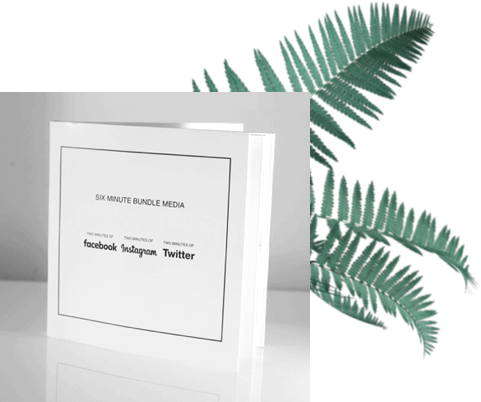
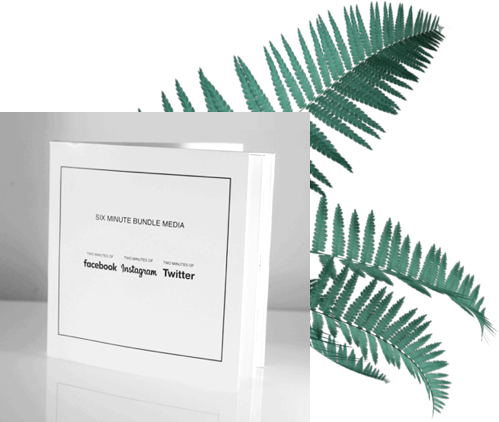
Push broken links

Changed region(s): [[0.0, 0.0, 0.9979, 0.9851], [0.1559, 0.5672, 0.4054, 0.6866], [0.1871, 0.4776, 0.3742, 0.5373]]

diff --git a/css/main.css b/css/main.css
@@ -6,7 +6,7 @@ html, body {
     -moz-box-sizing: border-box;
 }
 
-/* Typography ---------- */
+/* Typography ---------- ---------- ---------- */
 body {
     font-family: "Inconsolata", "Helvetica Neue", sans-serif;;
 }
@@ -57,11 +57,10 @@ a {
     text-align: left;
 }
 
-/* Layout ---------- */
+/* Layout ---------- ---------- ---------- */
 
 .outer-container {
     margin: 0 auto;
-    /*max-width: 1400px;*/
 }
 
 .hero-container {
@@ -92,7 +91,7 @@ header p {
     max-width: 275px;
     position: absolute;
     margin: auto;
-    top: -100px;
+    top: -80px;
     bottom: 0;
     right: 700px;
     left: 0;
@@ -103,7 +102,7 @@ header p {
     max-width: 400px;
     position: absolute;
     margin: auto;
-    top: 200px;
+    top: 220px;
     bottom: 0;
     right: 200px;
     left: 0;
@@ -114,7 +113,7 @@ header p {
     max-width: 340px;
     position: absolute;
     margin: auto;
-    top: 0;
+    top: 20px;
     bottom: 300px;
     right: -640px;
     left: 0;
@@ -158,11 +157,7 @@ header p {
     right: 590px;
 }
 
-.footer-image {
-    position: relative;
-    display: inherit;
-    margin: auto;
-}
+/* Work ---------- ---------- ---------- */
 
 .work-items-container h1 {
     margin-top: 100px;
@@ -196,8 +191,68 @@ header p {
     background-color: #eee;
 }
 
+/* Footer ---------- ---------- ---------- */
+
 footer {
+    margin-top: 200px;
     height: 200px;
     position: relative;
     display: block;
+}
+
+.footer-image {
+    position: relative;
+    display: inherit;
+    left: 44%;
+    display: inline-block;
+}
+
+
+.footer-right-rectangle {
+    background-color: #FFE9CD;
+    position: absolute;
+    bottom: -30px;
+    right: 0;
+    height: 300px;
+    width: 50%;
+    z-index: -99;
+}
+
+.footer-left-rectangle {
+    background-color: #EEE;
+    position: absolute;
+    bottom: -30px;
+    left: 0;
+    height: 180px;
+    width: 54%;
+    z-index: -99;
+}
+
+.footer-right-rectangle ul {
+    position: absolute;
+    bottom: 25%;
+    right: 35%;
+}
+
+.footer-left-rectangle a {
+    position: absolute;
+    display: inline-block;
+    bottom: 40%;
+    left: 35%;
+}
+
+.footer-right-rectangle li {
+    list-style: none;
+    margin: 10px 0;
+    cursor: pointer;
+}
+
+.footer-right-rectangle a {
+    min-width: 150px;
+    display: inline-block;
+}
+
+.footer-right-rectangle i {
+    padding-left: 40px;
+    float: right;
 }

diff --git a/index.html b/index.html
@@ -72,7 +72,19 @@
                 </ul>
             </div>
             <footer>
+                <div class="footer-left-rectangle">
+                        <a target="_blank" href="mailto:kelsey.legault@gmail.com">kelsey.legault@gmail.com</a>
+                </div>
                 <img class="footer-image" src="images/footer.png" alt="footer" />
+                <div class="footer-right-rectangle">
+                    <ul>
+                        <li><a target="_blank" href="https://www.instagram.com/kelseyllegault/">instagram<i class="zmdi zmdi-hc-lg zmdi-arrow-right"></i></a></li>
+                        <li><a target="_blank" href="https://twitter.com/kelseylegault">twitter<i class="zmdi zmdi-hc-lg zmdi-arrow-right"></i></a></li>
+                        <li><a target="_blank" href="https://vimeo.com/user23617166">vimeo<i class="zmdi zmdi-hc-lg zmdi-arrow-right"></i></a></li>
+                        <li><a target="_blank" href="https://github.com/kelseyll">github<i class="zmdi zmdi-hc-lg zmdi-arrow-right"></i></a></li>
+                        <li><a target="_blank" href="https://ca.linkedin.com/in/kelsey-legault-32417a93">linkedin<i class="zmdi zmdi-hc-lg zmdi-arrow-right"></i></a></li>
+                    </ul>
+                </div>
             </footer>
         </div>
     </body>
